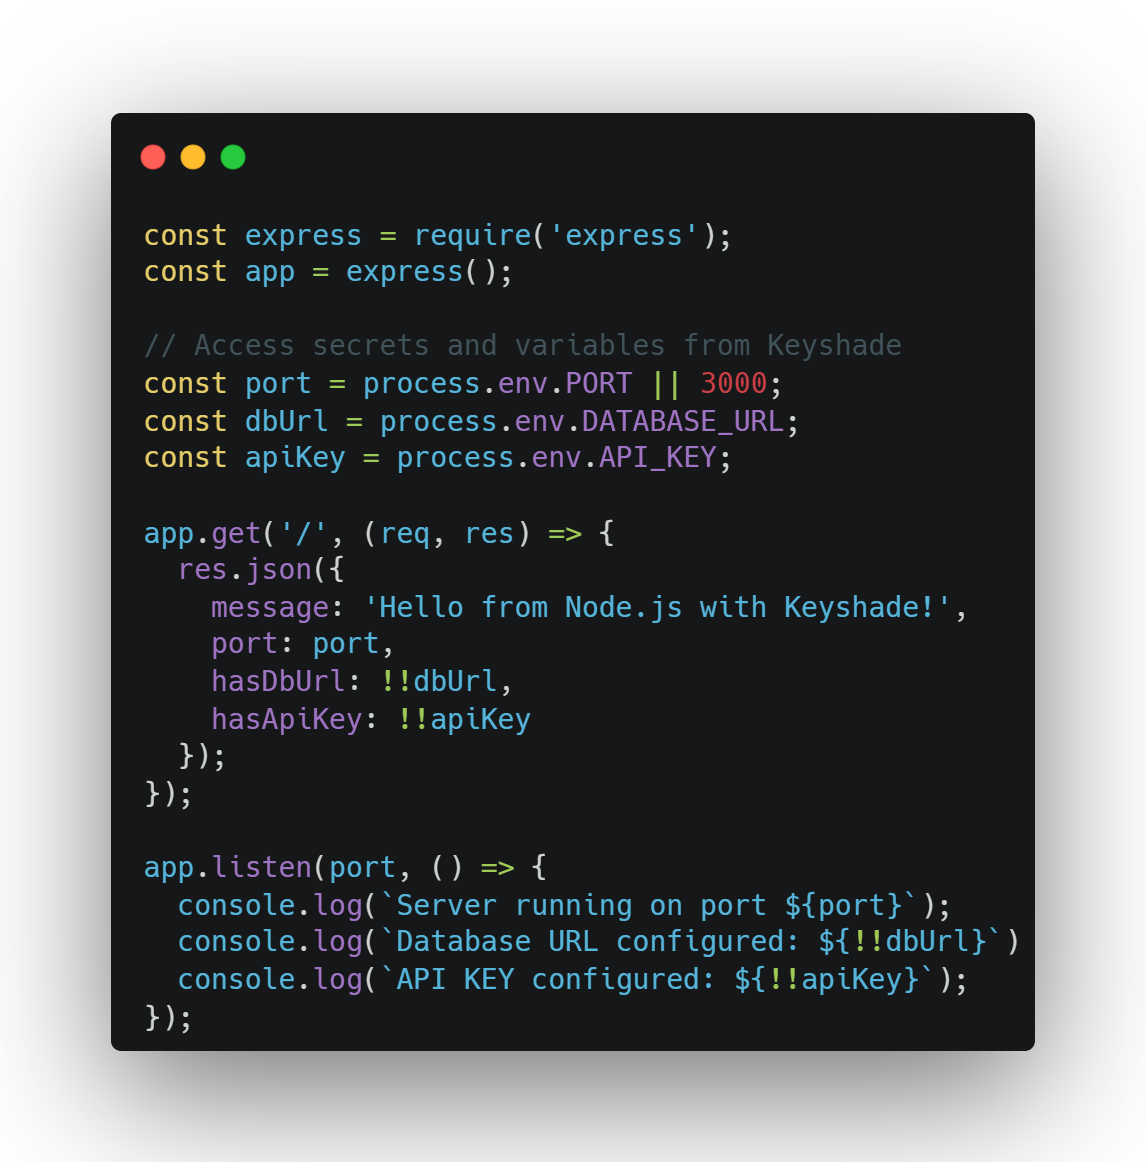
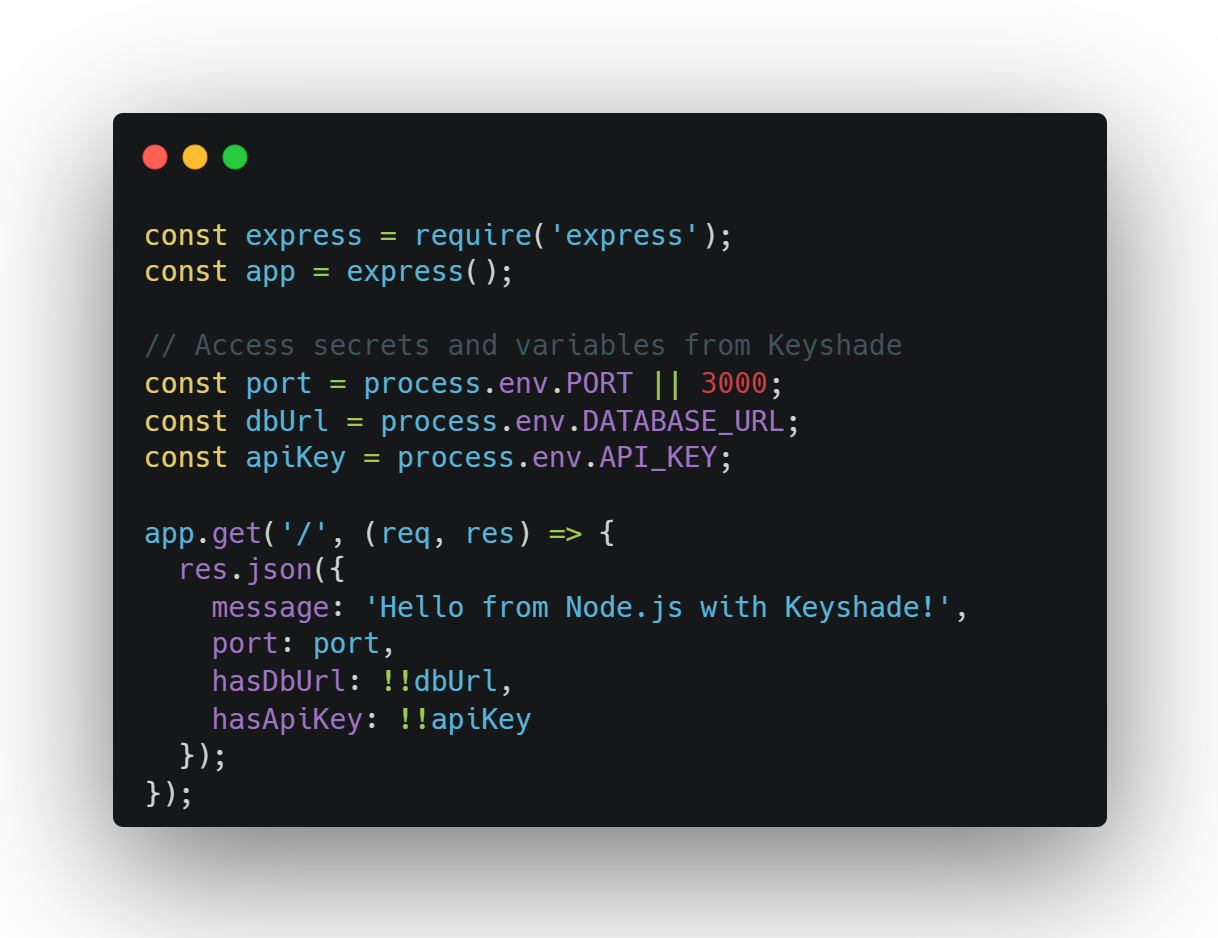
docs: changed the example images in blob and minor changes

Changed region(s): [[0.0916, 0.0928, 0.9162, 0.9275], [0.5803, 0.6183, 0.7635, 0.6802], [0.5803, 0.2473, 0.6108, 0.2783]]

diff --git a/docs/integration/frameworks/set-up-with-nodejs.md b/docs/integration/frameworks/set-up-with-nodejs.md
@@ -84,8 +84,8 @@ To get started:
 2.  Click **"Create Project"**
 3.  Name your project (e.g. `nodejs-app`)
 4.  Inside the project, click the **"Secrets"** tab
-5.  Add your **secrets**:
-6.  Add your **variables**:
+5.  Add your **secrets** (e.g. `API_KEY`, `DATABASE_URL`)
+6.  Add your **variables** (e.g. `PORT`)
 
 > 💡 **Secrets vs Variables:**
 >
@@ -93,9 +93,11 @@ To get started:
 >     
 > -   **Variables** are non-sensitive settings — like ports, feature flags, or toggles — and are stored as plain values, not encrypted.
  
-> Need help with projects and secrets? See [Managing Secrets & Variables](https://claude.ai/docs/getting-started/adding-your-first-secret-and-variable.md)
+> Need help with projects and secrets? See [Managing Secrets & Variables](/docs/getting-started/adding-your-first-secret-and-variable.md)
 
 ## Initialize Keyshade in Your Project
+
+In order to use the configurations you just created on the dashboard, you would need to initialize keyshade in your project. This generates the necessary configurations for the CLI to tap into your keyshade project.
 
 From your project root:
 
@@ -119,7 +121,7 @@ keyshade init --workspace-slug <my-workspace> --project-slug <my-project> --envi
 
 This will generate a `keyshade.json` file in your project root.
 
-> More on this in the [CLI Reference](https://claude.ai/docs/getting-started/installing-the-cli.md)
+> More on this in the [CLI Reference](/docs/getting-started/installing-the-cli.md)
 
 ## Run Your App with Secure Env Injection
 
